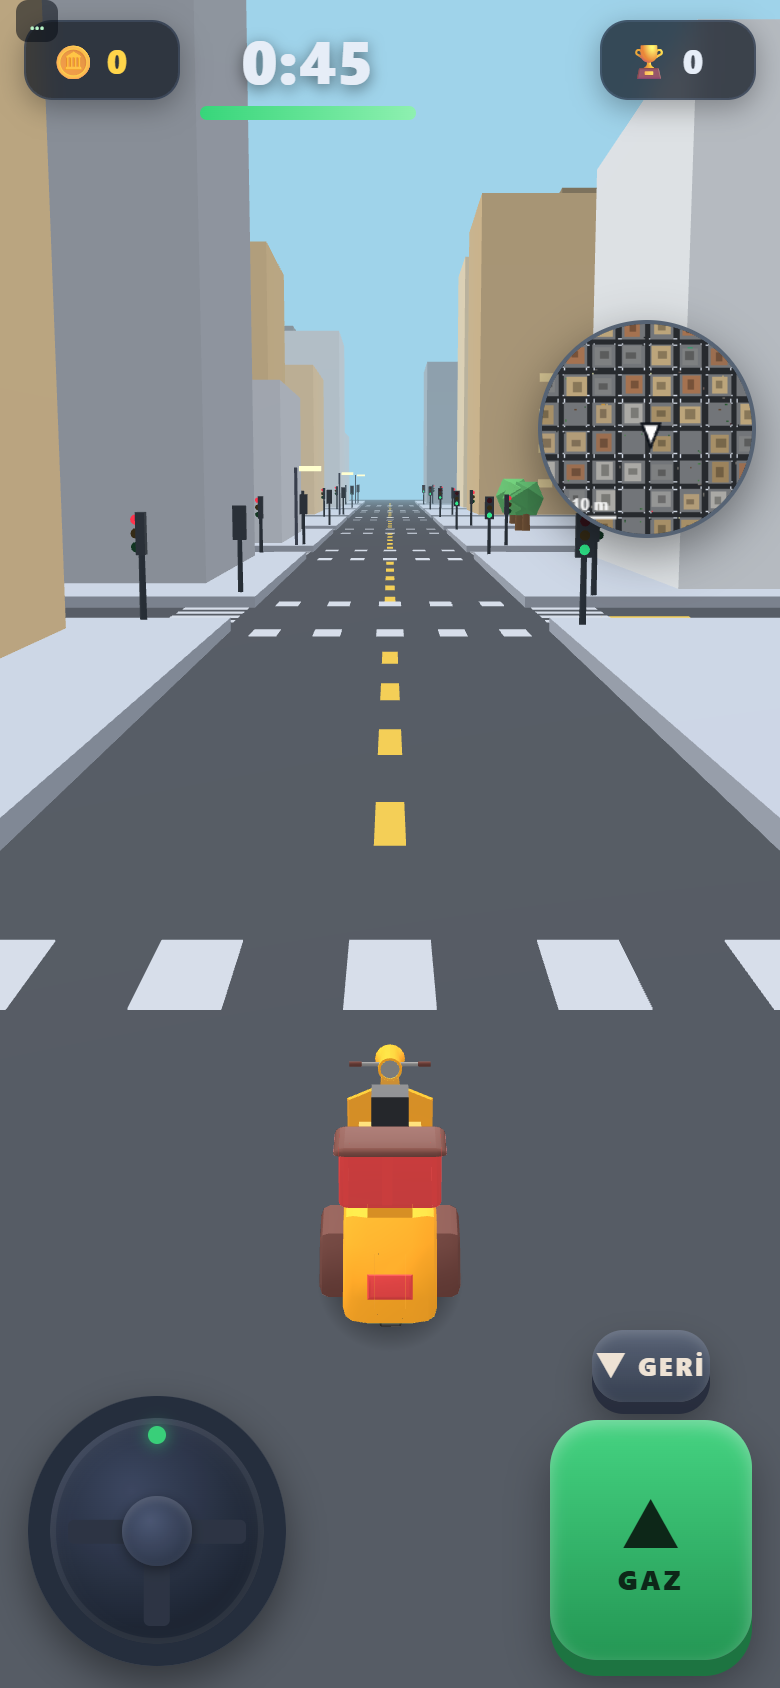
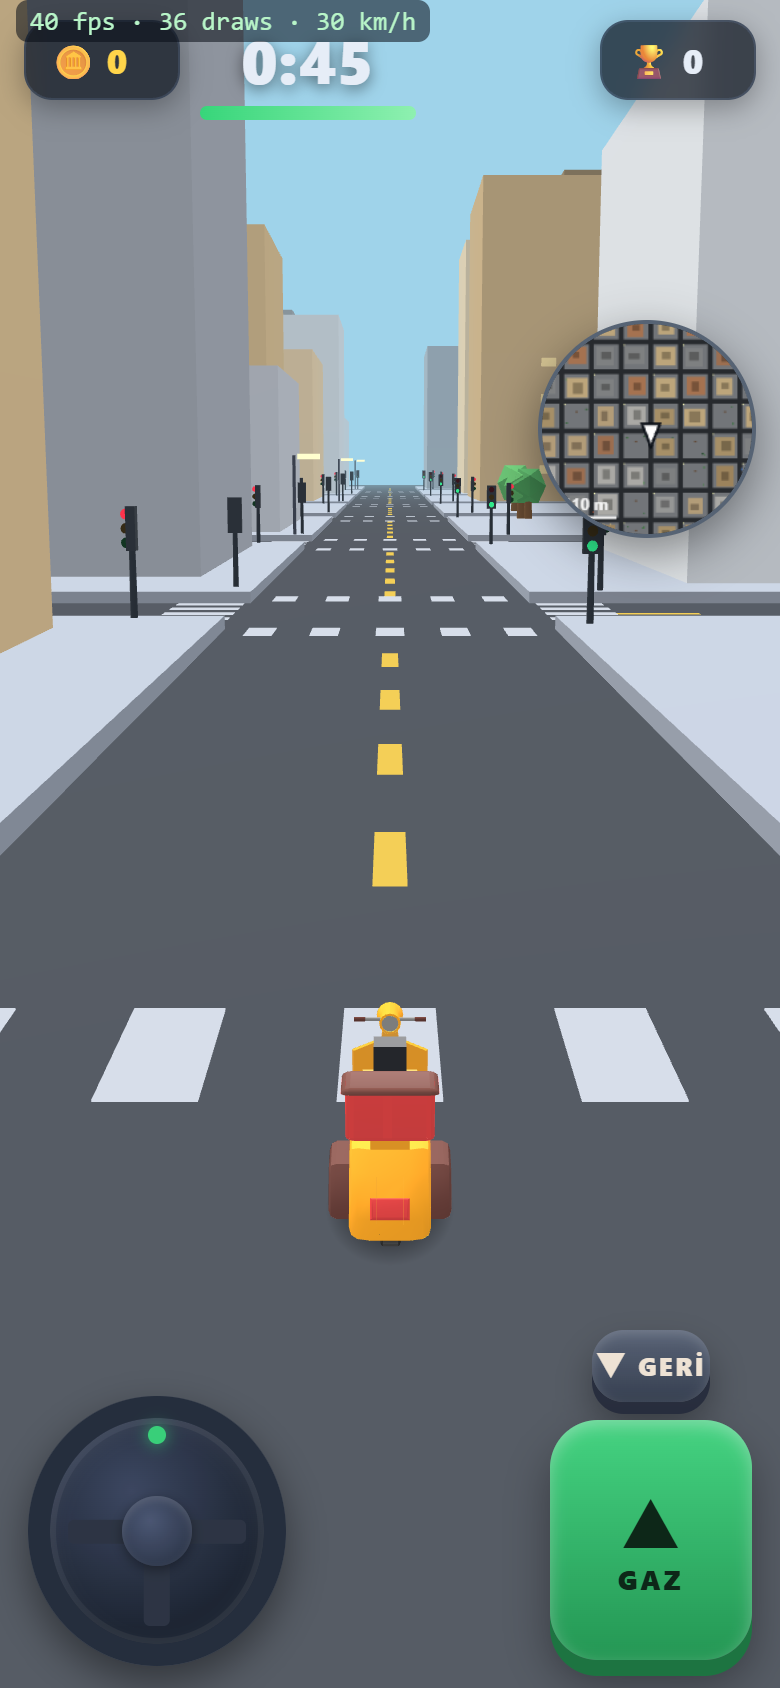
Optimize live map rendering

diff --git a/src/ui/WorldMap.ts b/src/ui/WorldMap.ts
@@ -25,8 +25,10 @@ export interface WorldMapOptions {
   grid: Grid;
   /** Dynamic semantic overlay. The 3D scene itself is always rendered exactly. */
   getSnapshot?: () => WorldMapSnapshot;
+  /** Cheap player position getter used for smooth map panning between marker refreshes. */
+  getCenter?: () => { x: number; z: number };
   size?: number;
-  /** Expensive exact-scene refresh. The city is static, so 1 Hz is sufficient. */
+  /** Expensive static-scene cache refresh. Set to 0 to capture only once. */
   worldUpdateHz?: number;
   /** Cheap player/target overlay refresh. */
   overlayUpdateHz?: number;
@@ -53,24 +55,43 @@ export class WorldMap {
 
   private readonly renderer: THREE.WebGLRenderer;
   private readonly camera: THREE.OrthographicCamera;
+  private readonly worldCanvas: HTMLCanvasElement;
+  private readonly worldCtx: CanvasRenderingContext2D;
+  private readonly cacheCanvas: HTMLCanvasElement;
+  private readonly cacheCtx: CanvasRenderingContext2D;
   private readonly overlay: HTMLCanvasElement;
   private readonly ctx: CanvasRenderingContext2D;
   private readonly observer: ResizeObserver | null;
   private readonly worldInterval: number;
   private readonly overlayInterval: number;
+  private readonly visualInterval = 1 / 30;
   private worldElapsed = 0;
   private overlayElapsed = 0;
+  private visualElapsed = 0;
   private cssSize: number;
   private mapTime = 0;
+  private snapshot: WorldMapSnapshot | null = null;
+  private displayCenter = { x: 0, z: 0 };
+  private captureMinX = 0;
+  private captureMinZ = 0;
+  private captureSpan = 1;
+  private cacheReady = false;
   private destroyed = false;
 
   constructor(private readonly options: WorldMapOptions) {
     injectStyle();
     this.cssSize = options.size ?? 136;
-    this.worldInterval = 1 / Math.max(0.2, options.worldUpdateHz ?? 1);
+    this.worldInterval = options.worldUpdateHz && options.worldUpdateHz > 0
+      ? 1 / Math.max(0.2, options.worldUpdateHz)
+      : Infinity;
     this.overlayInterval = 1 / Math.max(1, options.overlayUpdateHz ?? 12);
     this.worldElapsed = this.worldInterval;
     this.overlayElapsed = this.overlayInterval;
+    this.visualElapsed = this.visualInterval;
+    const initialCenter = options.getCenter?.()
+      ?? options.getSnapshot?.().player
+      ?? { x: options.grid.centerX, z: options.grid.centerZ };
+    this.displayCenter = { x: initialCenter.x, z: initialCenter.z };
 
     this.element = document.createElement('div');
     this.element.className = 'dr-world-map';
@@ -89,18 +110,26 @@ export class WorldMap {
     });
     this.renderer.outputColorSpace = THREE.SRGBColorSpace;
     this.renderer.shadowMap.enabled = false;
-    this.renderer.domElement.className = 'dr-world-map__world';
+    this.renderer.domElement.className = 'dr-world-map__source';
+
+    this.worldCanvas = document.createElement('canvas');
+    this.worldCanvas.className = 'dr-world-map__world';
+    this.worldCtx = this.worldCanvas.getContext('2d', { alpha: false })!;
+    this.cacheCanvas = document.createElement('canvas');
+    this.cacheCtx = this.cacheCanvas.getContext('2d', { alpha: false })!;
 
     this.overlay = document.createElement('canvas');
     this.overlay.className = 'dr-world-map__overlay';
     this.ctx = this.overlay.getContext('2d')!;
-    this.element.append(this.renderer.domElement, this.overlay);
+    this.element.append(this.worldCanvas, this.overlay);
     options.mount.appendChild(this.element);
 
     this.camera = new THREE.OrthographicCamera(-1, 1, 1, -1, 0.1, 5000);
     this.camera.up.set(0, 0, -1); // north / world -Z stays at the top
     this.fitLocalView();
     this.syncBackingSize();
+    this.captureWorld();
+    this.refreshVisuals(true);
 
     this.observer = typeof ResizeObserver === 'undefined'
       ? null
@@ -115,26 +144,55 @@ export class WorldMap {
     const safeDt = Math.max(0, dt);
     this.worldElapsed += safeDt;
     this.overlayElapsed += safeDt;
+    this.visualElapsed += safeDt;
+    const target = this.options.getCenter?.() ?? this.snapshot?.player;
+    if (target) {
+      const follow = 1 - Math.exp(-safeDt * 16);
+      this.displayCenter.x += (target.x - this.displayCenter.x) * follow;
+      this.displayCenter.z += (target.z - this.displayCenter.z) * follow;
+    }
     if (this.worldElapsed >= this.worldInterval) {
       this.worldElapsed = 0;
-      this.renderWorld();
+      this.captureWorld();
     }
     if (this.overlayElapsed >= this.overlayInterval) {
       this.overlayElapsed = 0;
-      this.drawOverlay();
+      this.snapshot = this.options.getSnapshot?.() ?? null;
+    }
+    if (this.visualElapsed >= this.visualInterval) {
+      this.visualElapsed = 0;
+      this.refreshVisuals();
     }
   }
 
   /** Force an immediate map refresh (useful after async decor/models arrive). */
   render(): void {
     if (this.destroyed || !this.element.isConnected) return;
-    this.renderWorld();
-    this.drawOverlay();
+    const target = this.options.getCenter?.() ?? this.options.getSnapshot?.().player;
+    if (target) this.displayCenter = { x: target.x, z: target.z };
+    this.snapshot = this.options.getSnapshot?.() ?? null;
+    if (!this.cacheReady) this.captureWorld();
+    this.refreshVisuals(true);
   }
 
-  private renderWorld(): void {
+  private captureWorld(): void {
     if (this.destroyed || !this.element.isConnected) return;
-    this.fitLocalView();
+    const grid = this.options.grid;
+    const padding = this.viewRadius();
+    this.captureSpan = Math.max(grid.worldW, grid.worldD) + padding * 2;
+    this.captureMinX = grid.centerX - this.captureSpan * 0.5;
+    this.captureMinZ = grid.centerZ - this.captureSpan * 0.5;
+    const half = this.captureSpan * 0.5;
+    const cacheSize = Math.min(1024, Math.max(512, Math.ceil(Math.max(grid.worldW, grid.worldD) * 0.6)));
+    this.renderer.setPixelRatio(1);
+    this.renderer.setSize(cacheSize, cacheSize, false);
+    this.camera.left = -half;
+    this.camera.right = half;
+    this.camera.top = half;
+    this.camera.bottom = -half;
+    this.camera.position.set(grid.centerX, grid.buildMaxH + 1000, grid.centerZ);
+    this.camera.lookAt(grid.centerX, 0, grid.centerZ);
+    this.camera.updateProjectionMatrix();
 
     // Fog tuned for the chase camera would wash out a camera hundreds of metres
     // above the city. Temporarily remove it only for this renderer/pass.
@@ -142,9 +200,14 @@ export class WorldMap {
     this.options.scene.fog = null;
     try {
       this.renderer.render(this.options.scene, this.camera);
+      this.cacheCanvas.width = cacheSize;
+      this.cacheCanvas.height = cacheSize;
+      this.cacheCtx.drawImage(this.renderer.domElement, 0, 0, cacheSize, cacheSize);
+      this.cacheReady = true;
     } finally {
       this.options.scene.fog = fog;
     }
+    this.fitLocalView();
   }
 
   destroy(): void {
@@ -158,7 +221,7 @@ export class WorldMap {
   private fitLocalView(): void {
     const { grid } = this.options;
     const radius = this.viewRadius();
-    const center = this.viewCenter();
+    const center = this.displayCenter;
     this.camera.left = -radius;
     this.camera.right = radius;
     this.camera.top = radius;
@@ -174,8 +237,11 @@ export class WorldMap {
     const measured = this.element.getBoundingClientRect().width;
     this.cssSize = Math.max(1, measured || this.cssSize);
     const dpr = Math.min(window.devicePixelRatio || 1, 1.5);
-    this.renderer.setPixelRatio(dpr);
-    this.renderer.setSize(this.cssSize, this.cssSize, false);
+    this.worldCanvas.width = Math.round(this.cssSize * dpr);
+    this.worldCanvas.height = Math.round(this.cssSize * dpr);
+    this.worldCanvas.style.width = `${this.cssSize}px`;
+    this.worldCanvas.style.height = `${this.cssSize}px`;
+    this.worldCtx.setTransform(dpr, 0, 0, dpr, 0, 0);
     this.overlay.width = Math.round(this.cssSize * dpr);
     this.overlay.height = Math.round(this.cssSize * dpr);
     this.overlay.style.width = `${this.cssSize}px`;
@@ -183,10 +249,10 @@ export class WorldMap {
     this.ctx.setTransform(dpr, 0, 0, dpr, 0, 0);
     this.worldElapsed = this.worldInterval;
     this.overlayElapsed = this.overlayInterval;
+    this.visualElapsed = this.visualInterval;
   }
 
-  private worldToMap(x: number, z: number): { x: number; y: number } {
-    const center = this.viewCenter();
+  private worldToMap(x: number, z: number, center = this.displayCenter): { x: number; y: number } {
     const radius = this.viewRadius();
     const span = radius * 2;
     return {
@@ -195,20 +261,36 @@ export class WorldMap {
     };
   }
 
-  private viewCenter(): { x: number; z: number } {
-    const player = this.options.getSnapshot?.().player;
-    return player ?? { x: this.options.grid.centerX, z: this.options.grid.centerZ };
-  }
-
   private viewRadius(): number {
     return Math.max(40, this.options.viewRadiusM ?? Math.min(this.options.grid.worldW, this.options.grid.worldD) * 0.22);
   }
 
-  private drawOverlay(): void {
+  private refreshVisuals(force = false): void {
+    if (!this.cacheReady) return;
+    // Keep the diagnostic camera position in sync without rebuilding its
+    // projection matrix; the visible map now pans by cropping the static cache.
+    this.camera.position.x = this.displayCenter.x;
+    this.camera.position.z = this.displayCenter.z;
+    const radius = this.viewRadius();
+    const sx = ((this.displayCenter.x - radius - this.captureMinX) / this.captureSpan) * this.cacheCanvas.width;
+    const sy = ((this.displayCenter.z - radius - this.captureMinZ) / this.captureSpan) * this.cacheCanvas.height;
+    const sourceSize = (radius * 2 / this.captureSpan) * this.cacheCanvas.width;
+    this.worldCtx.fillStyle = '#202a36';
+    this.worldCtx.fillRect(0, 0, this.cssSize, this.cssSize);
+    this.worldCtx.imageSmoothingEnabled = true;
+    this.worldCtx.imageSmoothingQuality = 'high';
+    this.worldCtx.drawImage(
+      this.cacheCanvas,
+      sx, sy, sourceSize, sourceSize,
+      0, 0, this.cssSize, this.cssSize,
+    );
+    this.drawOverlay(force ? (this.options.getSnapshot?.() ?? this.snapshot) : this.snapshot);
+  }
+
+  private drawOverlay(snapshot: WorldMapSnapshot | null): void {
     const ctx = this.ctx;
     const size = this.cssSize;
     ctx.clearRect(0, 0, size, size);
-    const snapshot = this.options.getSnapshot?.();
     if (!snapshot) return;
 
     if (snapshot.route && snapshot.route.length > 1) {
@@ -227,7 +309,7 @@ export class WorldMap {
     }
 
     for (const marker of snapshot.markers ?? []) this.drawMarker(marker);
-    this.drawMarker({ ...snapshot.player, kind: 'player' });
+    this.drawMarker({ ...snapshot.player, ...this.displayCenter, kind: 'player' });
 
     // Compact scale reference: the line represents one quarter of the visible diameter.
     const scaleM = Math.round(this.viewRadius() / 2 / 10) * 10;

diff --git a/src/boot.ts b/src/boot.ts
@@ -120,8 +120,9 @@ function startRush(): void {
     grid,
     placement: 'rush',
     viewRadiusM: 220,
-    worldUpdateHz: 0.5,
-    overlayUpdateHz: 12,
+    worldUpdateHz: 0,
+    overlayUpdateHz: 15,
+    getCenter: () => ({ x: vehicle.x, z: vehicle.z }),
     getSnapshot: () => {
       const order = orders.current;
       const node = order ? (order.pickedUp ? order.dropoff : order.pickup) : null;
@@ -209,8 +210,9 @@ function startFree(): void {
     grid,
     placement: 'embedded',
     viewRadiusM: 320,
-    worldUpdateHz: 0.5,
-    overlayUpdateHz: 12,
+    worldUpdateHz: 0,
+    overlayUpdateHz: 15,
+    getCenter: () => ({ x: vehicle.x, z: vehicle.z }),
     getSnapshot: () => {
       const job = board.active;
       const target = job ? (job.state === 'toPickup' ? job.source : job.dest) : null;

diff --git a/CODEX_WORK_LOG.md b/CODEX_WORK_LOG.md
@@ -577,3 +577,46 @@ araç varyantıyla değiştirildi.
 - `tools/playtest/mobile-controls.mjs`
 - `package.json`
 - `CODEX_WORK_LOG.md`
+
+---
+
+# Canli harita akicilik optimizasyonu — 20 Temmuz 2026
+
+## Kok neden ve yeni yontem
+
+- Eski harita aktif Three.js sahnesini ayri bir WebGL renderer ile iki saniyede bir
+  yeniden ciziyordu. Bu seyrek ama agir tam-sahne render'i mobilde kare suresi
+  sicrama/takilmasi olusturuyordu.
+- Sehir statik oldugu icin ustten gorunumu acilista bir kez yuksek cozumlu bir cache
+  canvas'ina aliniyor. Dairesel harita artik bu goruntuden oyuncunun cevresindeki
+  parcayi kirpip gosteriyor; surus sirasinda ikinci WebGL render'i calismiyor.
+- Harita merkezi ucuz canvas kirpmasiyla 30 Hz yenileniyor ve oyuncuya exponential
+  smoothing ile yaklasiyor. Isaret/POI snapshot'i 15 Hz yenileniyor.
+- Onceki kod her marker koordinatinda `getSnapshot()` fonksiyonunu tekrar cagiriyordu.
+  Snapshot artik yenileme basina yalniz bir kez uretilip tum marker'lar tarafindan
+  paylasiliyor.
+- Dairesel gorunum, RUSH 220 m ve SERBEST 320 m yerel gorus alanlari korundu.
+
+## Dogrulama
+
+- `node tools/playtest/world-map.mjs`: RUSH ve SERBEST PASS.
+  - 2.2 saniyelik surus orneginde harita kaynak WebGL render sayisi iki modda da `0`.
+  - Oyuncu takibi, dairesel maske, tek harita canvas'i ve HUD entegrasyonu PASS.
+- `npm run playtest:modes`: PASS; RUSH ve SERBEST yol ornekleri 80/80 gecerli.
+- `npm run playtest:mobile-controls`: RUSH ve SERBEST PASS; tum dokunmatik kontroller
+  calisiyor. Headless test, geri sayim throttling'inden etkilenmemesi icin canli run'i
+  dogrudan baslatacak sekilde saglamlastirildi.
+- `npm run typecheck`: PASS.
+- `npm run build`: PASS.
+- 390x844 `world-map-rush.png`, `world-map-free.png` ve mobil kontrol goruntuleri
+  gozle incelendi; harita okunabilir ve dogru merkezli.
+
+## Guncellenen dosyalar
+
+- `src/ui/WorldMap.ts`
+- `src/boot.ts`
+- `tools/playtest/world-map.mjs`
+- `tools/playtest/mobile-controls.mjs`
+- `tools/playtest/shots/world-map-rush.png`
+- `tools/playtest/shots/world-map-free.png`
+- `CODEX_WORK_LOG.md`
